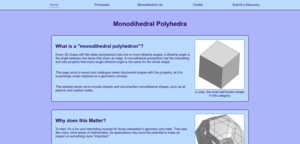
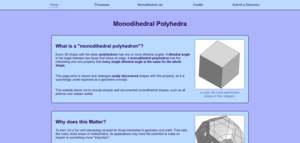
incorporated bold text suggestion

diff --git a/csce242/projects/part5/processes.html b/csce242/projects/part5/processes.html
@@ -24,15 +24,15 @@
             <h3>Here's a brief description of some of the methods used to derive polyhedra appearing on this list:</h3>
             <div class="text-block">
                 <h2>Crimping</h2>
-                <p>Crimping is a term I coined to describe the process of "pinching off" the corners of a polyhedron. Functionally, this can be described as cutting the corners with the surface of a pyramid with its edges directly between those of the corner. In most cases, these pyramids are based halfway along the edges belonging to the corner, with one exception (the alternating crimped cube) where it is instead based at the far ends of the edges.</p>
+                <p>Crimping is a term I coined to describe the process of "pinching off" the corners of a polyhedron. Functionally, this can be described as cutting the corners with the surface of a pyramid with its edges directly between those of the corner. In most cases, these pyramids are based halfway along the edges belonging to the corner, with one exception (the <strong>alternating crimped cube</strong>) where it is instead based at the far ends of the edges.</p>
                 <section class="always columns">
                     <section>
                         <img src="images/Tetra.jpg">
-                        <p>a tetrahedron</p>
+                        <p class="faded">a tetrahedron</p>
                     </section>
                     <section>
                         <img src="images/CTetra.jpg">
-                        <p>a crimped tetrahedron</p>
+                        <p class="faded">a crimped tetrahedron</p>
                     </section>
                 </section>
             </div>
@@ -42,11 +42,11 @@
                 <section class="always columns">
                     <section>
                         <img src="images/Tetra.jpg">
-                        <p>a tetrahedron</p>
+                        <p class="faded">a tetrahedron</p>
                     </section>
                     <section>
                         <img src="images/DCTetra.jpg">
-                        <p>a double crimped tetrahedron</p>
+                        <p class="faded">a double crimped tetrahedron</p>
                     </section>
                 </section>
             </div>
@@ -56,11 +56,11 @@
                 <section class="always columns">
                     <section>
                         <img src="images/Cuboc.jpg">
-                        <p>a cuboctahedron</p>
+                        <p class="faded">a cuboctahedron</p>
                     </section>
                     <section>
                         <img src="images/FSCubocta.jpg">
-                        <p>a fully stellated cuboctahedron</p>
+                        <p class="faded">a fully stellated cuboctahedron</p>
                     </section>
                 </section>
             </div>
@@ -70,25 +70,25 @@
                 <section class="always columns">
                     <section>
                         <img src="images/DCTetra.jpg">
-                        <p>a double crimped tetrahedron</p>
+                        <p class="faded">a double crimped tetrahedron</p>
                     </section>
                     <section>
                         <img src="images/TDCTetra.jpg">
-                        <p>a truncated double crimped tetrahedron</p>
+                        <p class="faded">a truncated double crimped tetrahedron</p>
                     </section>
                 </section>
             </div>
             <div class="text-block">
                 <h2>"Propellor" Operation</h2>
-                <p>This process, not discovered by me, involves "pulling out" the faces of a platonic solid and rotating them all by the same amount before connecting all the old and new vertices together. There are many versions of this operation, but one of them specifically creates monodihedral polyhedra. This class of solids is unique for being chiral, a trait shared only by the pentagonal catalan solids among monodihedral polyhedra.</p>
+                <p>This process, not discovered by me, involves "pulling out" the faces of a platonic solid and rotating them all by the same amount before connecting all the old and new vertices together. There are many versions of this operation, but one of them specifically creates monodihedral polyhedra. This class of solids is unique for being <strong>chiral</strong> (they essentially have a "handedness" as they don't have any mirror symmetry), a trait shared only by the pentagonal catalan solids among monodihedral polyhedra.</p>
                 <section class="always columns">
                     <section>
                         <img src="images/Tetra.jpg">
-                        <p>a tetrahedron</p>
+                        <p class="faded">a tetrahedron</p>
                     </section>
                     <section>
                         <img src="images/PTetra.jpg">
-                        <p>a "propello" tetrahedron</p>
+                        <p class="faded">a "propello" tetrahedron</p>
                     </section>
                 </section>
             </div>

diff --git a/csce242/projects/part5/index.html b/csce242/projects/part5/index.html
@@ -25,13 +25,13 @@
             <div class="text-block columns">
                 <section>
                     <h2>What is a "monodihedral polyhedron"?</h2>
-                    <p>Every 3D shape with flat sides (polyhedron) has one or more dihedral angles. A dihedral angle is the angle between two faces that share an edge. A monodihedral polyhedron has the interesting and rare property that every single dihedral angle is the same for the whole shape.</p>
-                    <p>This page aims to record and catalogue newly discovered shapes with this property, as it is surprisingly under explored as a geometric concept.</p>
+                    <p>Every 3D shape with flat sides (<strong>polyhedron</strong>) has one or more dihedral angles. A <strong>dihedral angle</strong> is the angle between two faces that share an edge. A <strong>monodihedral polyhedron</strong> has the interesting and rare property that <strong>every single dihedral angle is the same for the whole shape.</strong></p>
+                    <p>This page aims to record and catalogue <strong>newly discovered</strong> shapes with this property, as it is surprisingly under explored as a geometric concept.</p>
                     <p>This website elects not to include already well documented monodihedral shapes, such as all platonic and catalan solids.</p>
                 </section>
                 <aside>
                     <img src="images/Cube.jpg">
-                    <p>a cube, the most well known shape in this category</p>
+                    <p class="faded">a cube, the most well known shape in this category</p>
                 </aside>
             </div>
             <div class="text-block columns">
@@ -42,7 +42,7 @@
                 </section>
                 <aside>
                     <img src="images/Puzzle.jpg">
-                    <p>a design for a puzzle derived from the crimped tetrahedron</p>
+                    <p class="faded">a design for a puzzle derived from the crimped tetrahedron</p>
                 </aside>
             </div>
             <p id="name">&copy;Thomas Zwetsloot</p>

diff --git a/csce242/projects/part5/styles.css b/csce242/projects/part5/styles.css
@@ -1,5 +1,6 @@
 :root {
     --text: #230252;
+    --faded: #5459a0;
     --highlight: #2020e4;
     --block: #badbff;
     --background: #acb5fb;
@@ -180,6 +181,11 @@ textarea {
 
 .dense {
     margin: 10px auto;
+}
+
+.faded {
+    color: var(--faded);
+    padding: 4px 8px;
 }
 
 .hide-small {
